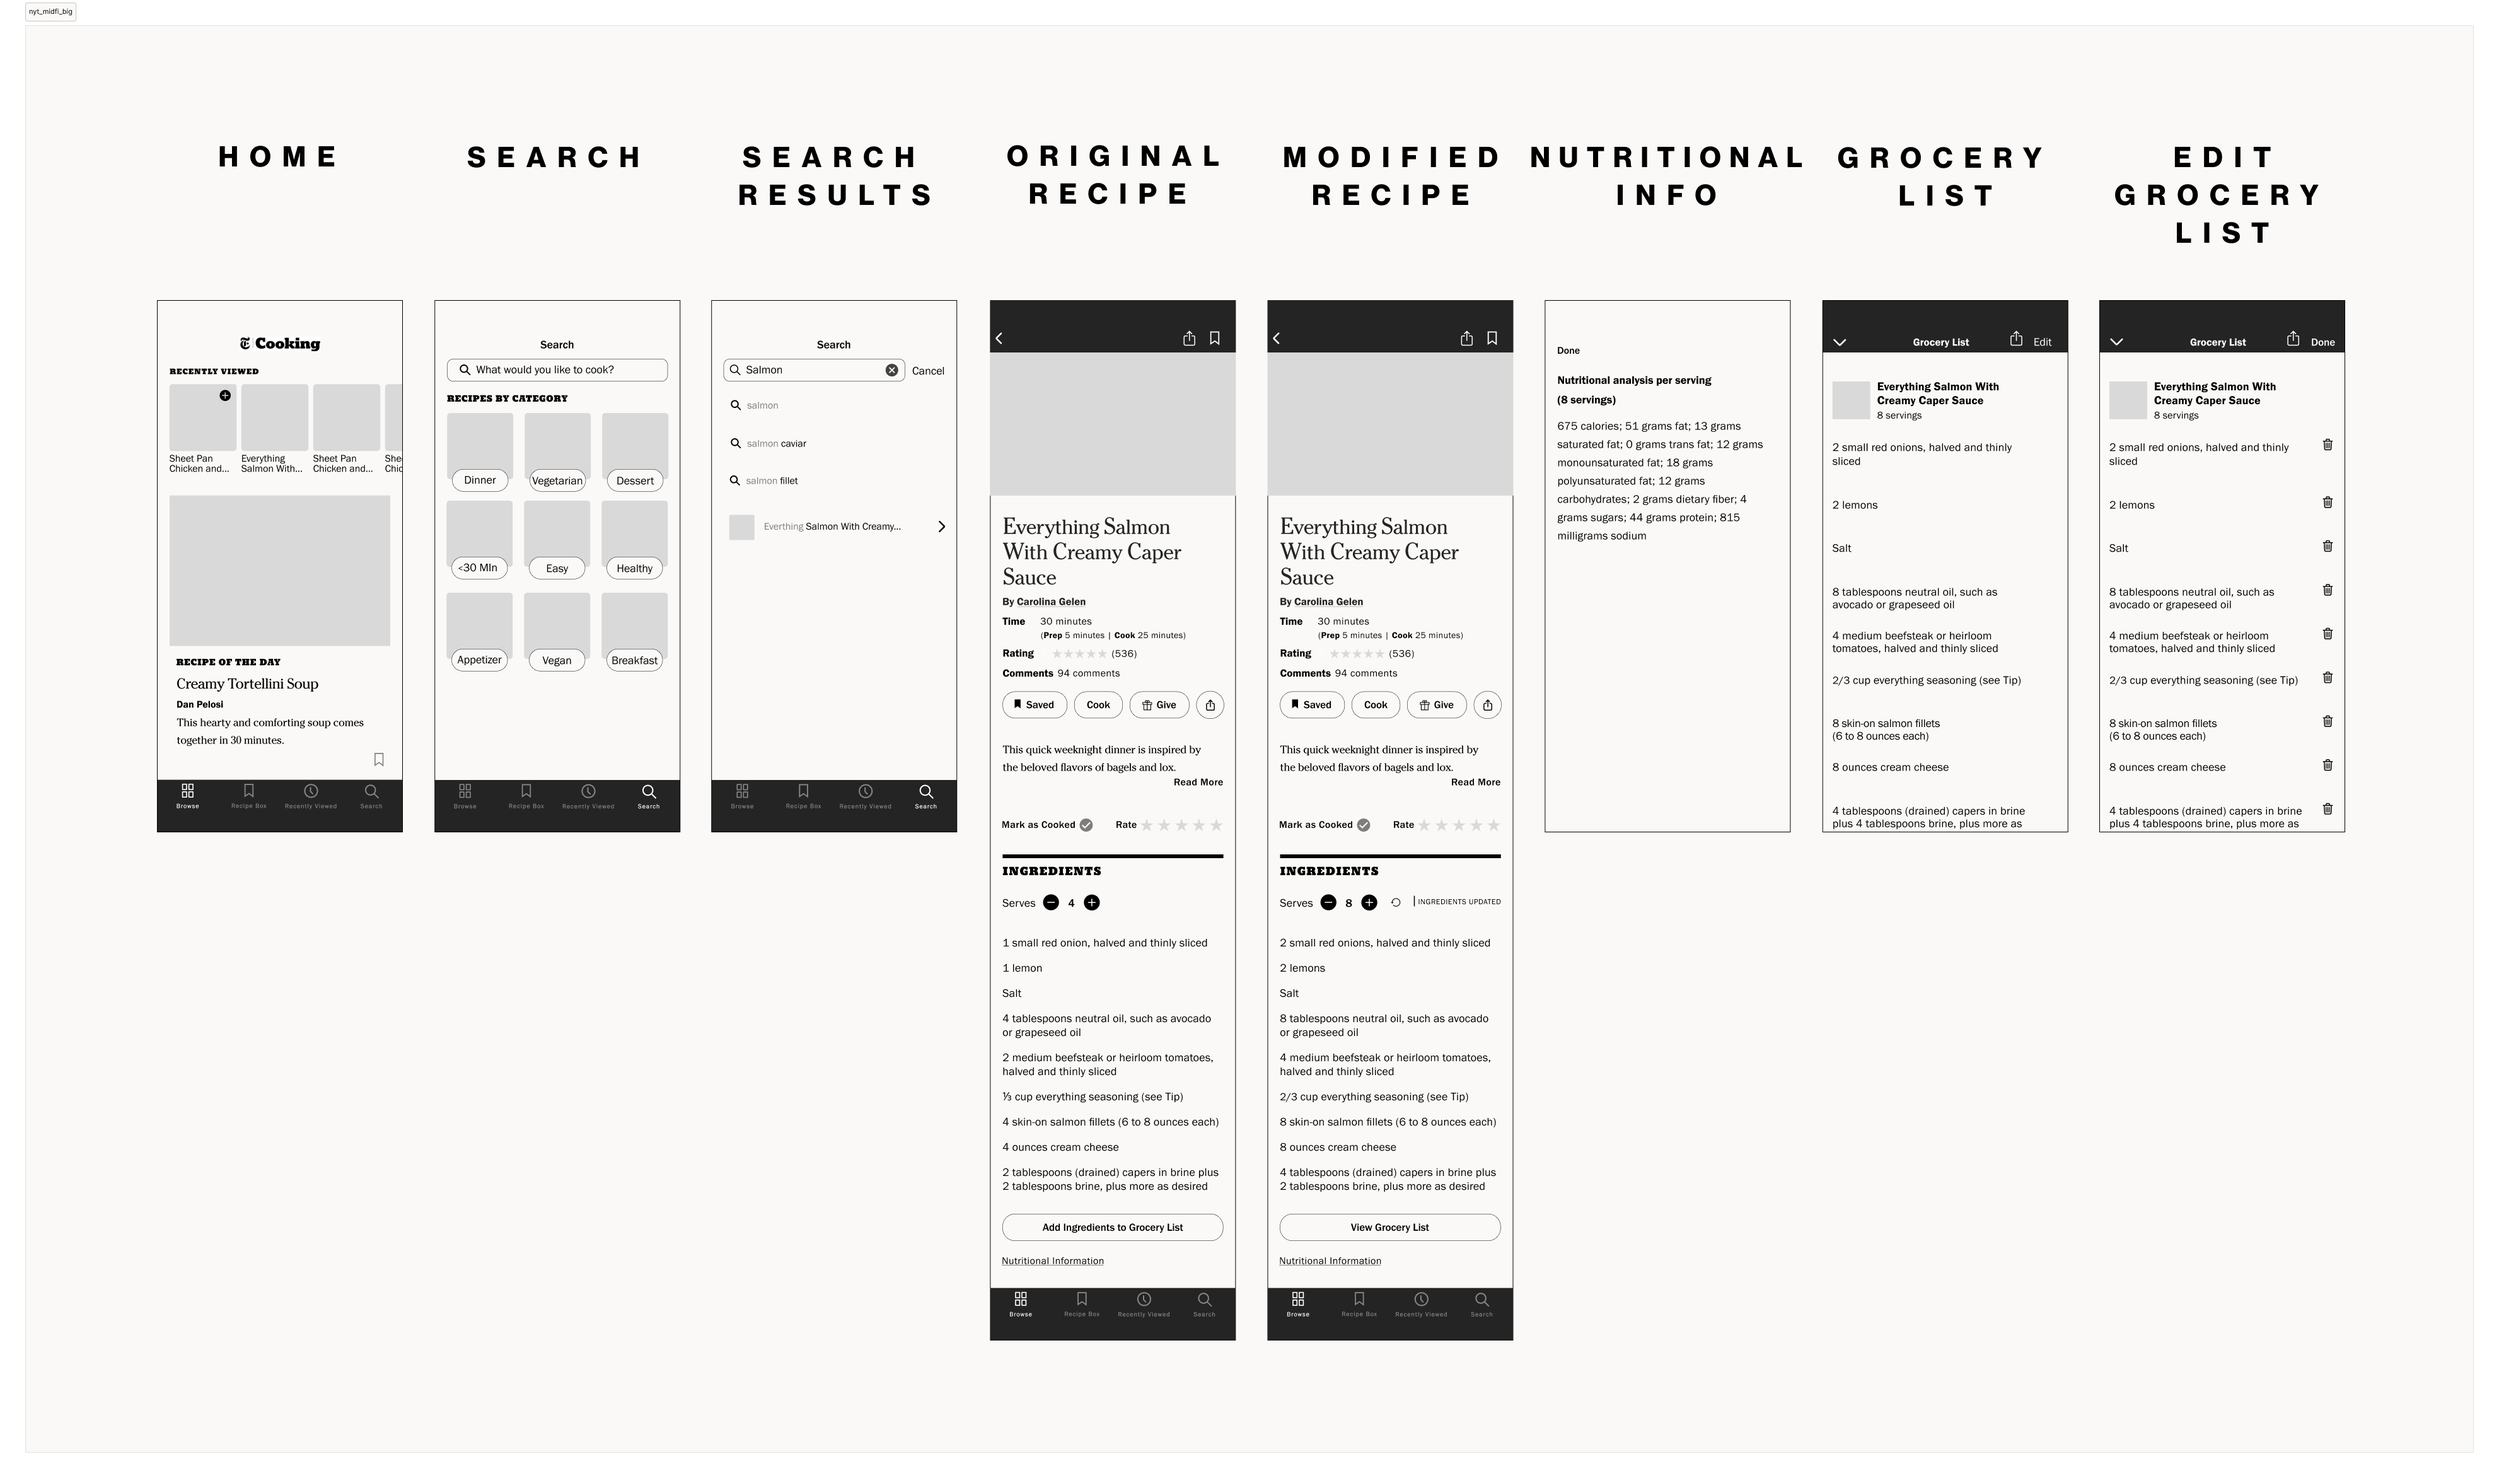
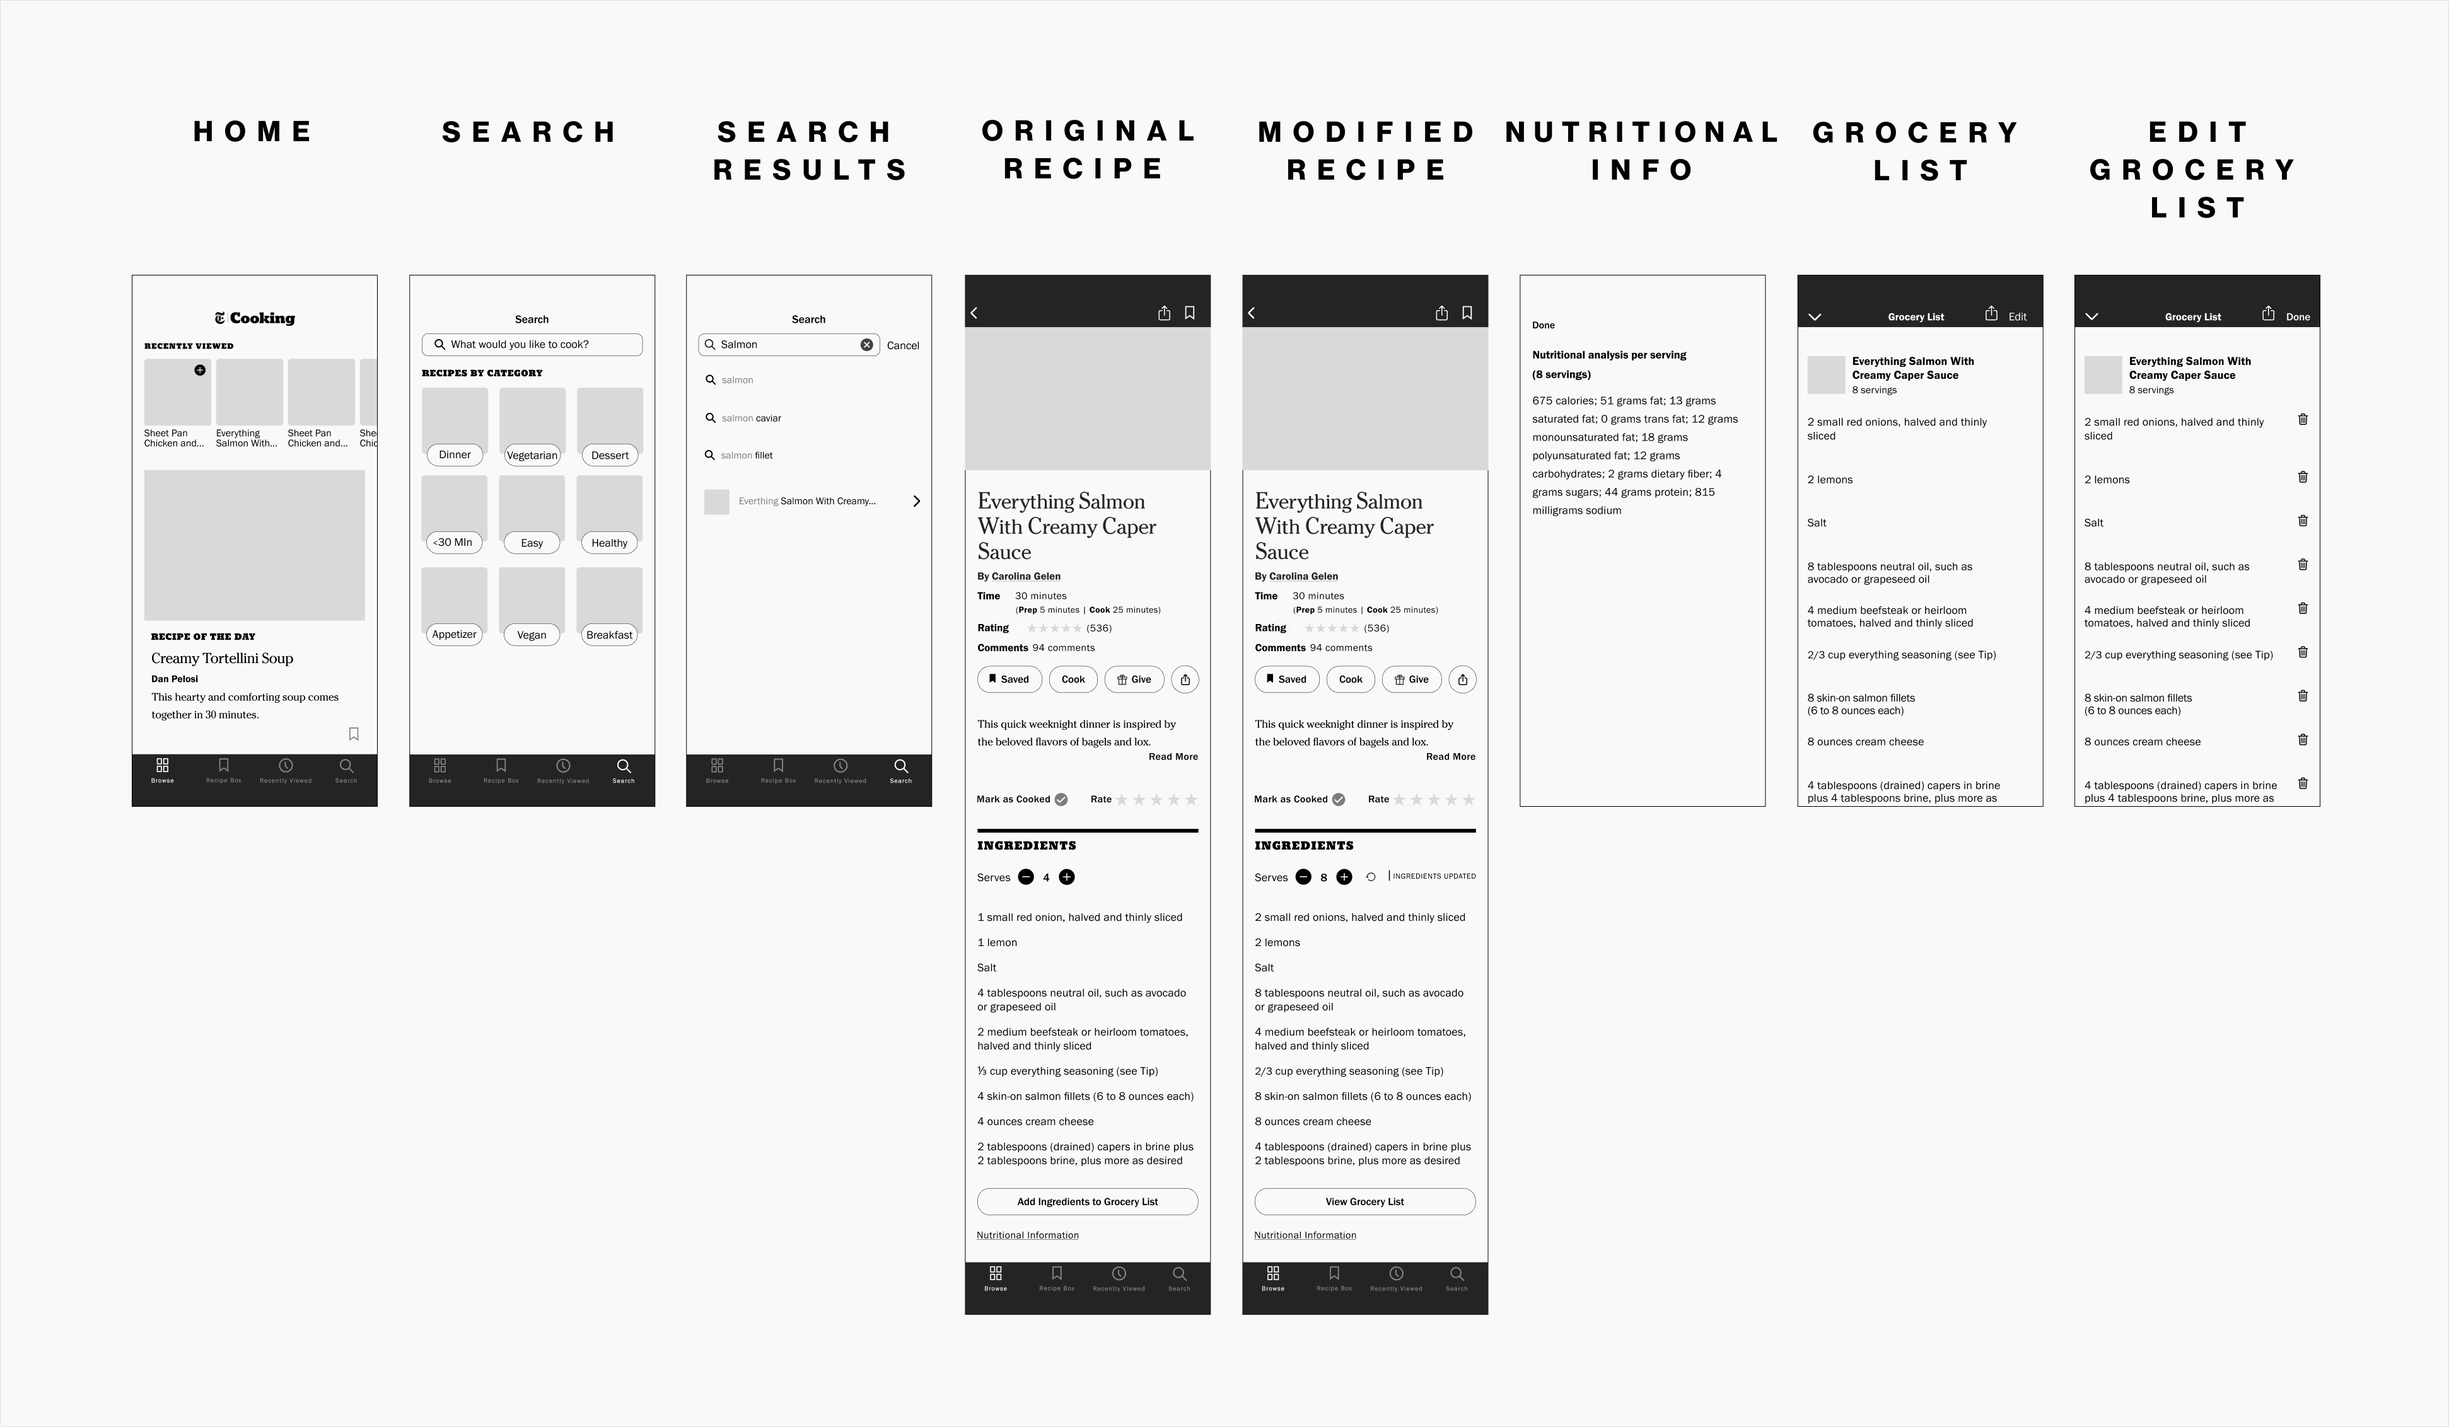
added 2nd modal

diff --git a/src/components/Ux/ReusableComponents/Nyt/DesignNyt.js b/src/components/Ux/ReusableComponents/Nyt/DesignNyt.js
@@ -5,17 +5,17 @@ import './../ReusableComponents.css'
 import magWh from '../../../../assets/ssc/magWh.png'
 import magWhH from '../../../../assets/ssc/magWhH.png'
 import user_flow from '../../../../assets/nyt/nyt_user_flow2.png'
+import lofi from '../../../../assets/nyt/nyt_midfi_sm.png'
 // import hiFi from '../../../assets/ssc/hifi_crop.jpg'
 // import mid_fi from '../../../assets/ssc/ive_mid_fi.png'
 import { ModalNytFlow } from '../../Modals/ModalNytFlow'
-// import { ModalSscLoFi } from '../Modals/ModalSscLoFi'
-// import { ModalSscHiFi } from '../Modals/ModalSscHiFi'
+import { ModalNytLoFi } from '../../Modals/ModalNytLoFi'
 
 
 export const DesignNyt = () => {
   const [hover, setHover] = useState(false);
   const [ismodalNytFlowOpen, setIsmodalNytFlowOpen] = useState(false)
-  // const [ismodalSscLoFiOpen, setIsmodalSscLoFiOpen] = useState(false)
+  const [ismodalNytLoFiOpen, setIsmodalNytLoFiOpen] = useState(false)
   // const [ismodalSscHiFiOpen, setIsmodalSscHiFiOpen] = useState(false)
 
     const handleMouseIn = () => {
@@ -35,14 +35,14 @@ export const DesignNyt = () => {
       document.body.style.overflow = 'auto'
     }
 
-    // const modalSscLoFiOpen = () => {
-    //   setIsmodalSscLoFiOpen(true)
-    //   document.body.style.overflow = 'hidden'
-    // }
-    // const modalSscLoFiClose = () => {
-    //   setIsmodalSscLoFiOpen(false)
-    //   document.body.style.overflow = 'auto'
-    // }
+    const modalNytLoFiOpen = () => {
+      setIsmodalNytLoFiOpen(true)
+      document.body.style.overflow = 'hidden'
+    }
+    const modalNytLoFiClose = () => {
+      setIsmodalNytLoFiOpen(false)
+      document.body.style.overflow = 'auto'
+    }
     // const modalSscHiFiOpen = () => {
     //   setIsmodalSscHiFiOpen(true)
     //   document.body.style.overflow = 'hidden'
@@ -73,58 +73,41 @@ export const DesignNyt = () => {
         <div className='divider_curved top'></div>
         <div className='divider_curved_down'></div>
         <h5 className='h5 dropCap black'>
-        The low-fidelity wireframes helped shape the content structure and layout, ensuring key elements were organized effectively. By referring to the persona and affinity map, I focused on presenting crucial information that keeps users engaged, particularly on the landing and product pages.
-        </h5>
+        The user flow diagram helped me visualize how serving size adjustments would impact the recipe page&apos;s layout and functionality, guiding the creation of low-fidelity wireframes. The goal was to incorporate NYT&apos;s existing UI while ensuring that features like nutritional information and the grocery list would update dynamically when the serving size was changed. Following are the key points:
+
+</h5>
         <ul className='h5 bullets'>
-            <li className='first_li_research black'>
-              <h5 className='h5 black'>Wireframes provided insights into content structure and page organization.</h5>
-            </li>
+<li className='first_li_research black'>
+  <h5 className='h5 black'>Mapped key interaction points where serving size adjustments affect layout, ingredient quantities, and features like the grocery list and nutritional information.</h5>
+</li>
             <li className='black'>
-              <h5 className='h5 black'>Persona and affinity map guided the prioritization of user-friendly, engaging information.</h5>
-            </li>
-            <li className='smHed'>
-              <h6 className='h6 small space'>
-                landing page
-              </h6 >
+              <h5 className='h5 black'>Designed wireframes to visualize how changes in serving size would update ingredient amounts, nutritional data, and the grocery list in real-time.</h5>
             </li>
             <li className='black'>
               <h5 className='h5 black'>
-              Mission statement highlighting sustainability and handcrafted products.
+              Ensured seamless integration with NYT’s existing UI, maintaining consistency in design while adding dynamic updates for the new feature.
               </h5>
             </li>
-            <li className='black'>
-              <h5 className='h5 black'>
-              SSC&apos;s values presented with icons and brief text.
-              </h5>
-          </li>
-          <li className='smHed'>
-              <h6 className='h6 small space'>
-                product page
-              </h6>
-            </li>
-            <li className='black'>
-              <h5 className='h5 black'>
-              Features usage instructions, ingredients, and customer reviews.              </h5>
-            </li>
-        </ul>
+         </ul>
         <div className='ButtonContainer'>
                     <div className='Button enlarge white'>low fidelity wireframes</div>
-                    <button onClick={''} onMouseOver={handleMouseIn} onMouseOut={handleMouseOut}>
+                    <button onClick={modalNytLoFiOpen} onMouseOver={handleMouseIn} onMouseOut={handleMouseOut}>
                     {hover ? <img className='magnifier wh' src={magWhH} alt={magWhH}
                       /> : <img className='magnifier wh' src={magWh} alt={magWh}
                       />}
                     </button>
-          <img className='competitive mid_fi' src={''} alt={''} />
+          <img className='competitive mid_fi' src={lofi} alt={lofi} />
         </div>
         <div className='divider_curved top'></div>
         <h5 className='h5 dropCap black'>
-        In moderated testing of the low-fidelity wireframes, 5 participants completed their tasks of exploring the homepage, purchasing the vegan soap and accessing information about the company&apos;s sustainability practices and product usage. All five users succeeded without errors and found the navigation intuitive, though they suggested increasing the hamburger menu size and improving access to product reviews. <br /> <br /> Next steps for the high-fidelity wireframes:        </h5>
+        In moderated testing of the low-fidelity wireframes, five participants rated the serving size feature 5/5 for ease of use. However, the overall satisfaction score was 88%, due to dissatisfaction with the existing NYT UI, particularly around the grocery list editing. Since their existing UI was out of my scope, I focused on the following leaving the rest of the NYT designed unchanged:
+        </h5>
         <ul className='h5 bullets'>
             <li className='first_li_research black'>
-              <h5 className='h5 black'>Expanding the navigation bar and detailing sustainability practices via new pages of an ingredients glossary and reviews to enhance transparency and user satisfaction.</h5>
+              <h5 className='h5 black'>Enlarged and moved the edit and done buttons from the top navigation bar to the right of the recipe name.</h5>
             </li>
             <li className='black'>
-              <h5 className='h5 black'> Art deco branding theme was already established. The new logo and branding echo and coexist with old in order for it to be updated seamlessly and cohesively, while making the brand more distinct and emphasizing sustainability again in the tagline.</h5>
+              <h5 className='h5 black'> Changed the edit grocery list page deletion UI to mirror the existing NYT’s UI.</h5>
             </li>
         </ul>
         <div className='ButtonContainer'>
@@ -140,8 +123,8 @@ export const DesignNyt = () => {
 
       </section>
       <ModalNytFlow isOpen={ismodalNytFlowOpen} modalSscClose={modalNytFlowClose} />
-      {/* <ModalSscLoFi isOpen={ismodalSscLoFiOpen} modalSscClose={modalSscLoFiClose} />
-      <ModalSscHiFi isOpen={ismodalSscHiFiOpen} modalSscClose={modalSscHiFiClose} />  */}
+      <ModalNytLoFi isOpen={ismodalNytLoFiOpen} modalSscClose={modalNytLoFiClose} />
+      {/* <ModalSscHiFi isOpen={ismodalSscHiFiOpen} modalSscClose={modalSscHiFiClose} />  */}
     </>
   )
 }

diff --git a/src/components/Ux/Modals/ModalNytLoFi.js b/src/components/Ux/Modals/ModalNytLoFi.js
@@ -1,0 +1,34 @@
+import './Modals.css'
+import { IoCloseCircle } from 'react-icons/io5'
+import lo_fi from '../../../assets/nyt/nyt_midfi_big.png'
+
+export const ModalNytLoFi = ({ isOpen = true, modalSscClose }) => {
+  if (!isOpen) {
+    return null
+  }
+  return (
+    <div className='ModalWrapper'>
+      <div className='ModalContainer'>
+        <div className='modalSsc'>
+          <button
+            type='button'
+            onClick={modalSscClose}
+            className='ModalContainer-button'
+          >
+            <IoCloseCircle
+              size={32}
+              style={{
+                float: 'right',
+                background: 'white',
+                borderRadius: '50%',
+              }}
+            />
+          </button>
+          <div className='ModalContainerScroll'>
+            <img className='competitive_lg' src={lo_fi} alt='competitive' />
+          </div>
+        </div>
+      </div>
+    </div>
+  )
+}

diff --git a/src/components/Ux/ReusableComponents/Nyt/DefineNyt.js b/src/components/Ux/ReusableComponents/Nyt/DefineNyt.js
@@ -34,8 +34,6 @@ export const DefineNyt = () => {
                       alt={venn}
                     />
                   </div>
-
-
       </section>
     </>
   )
